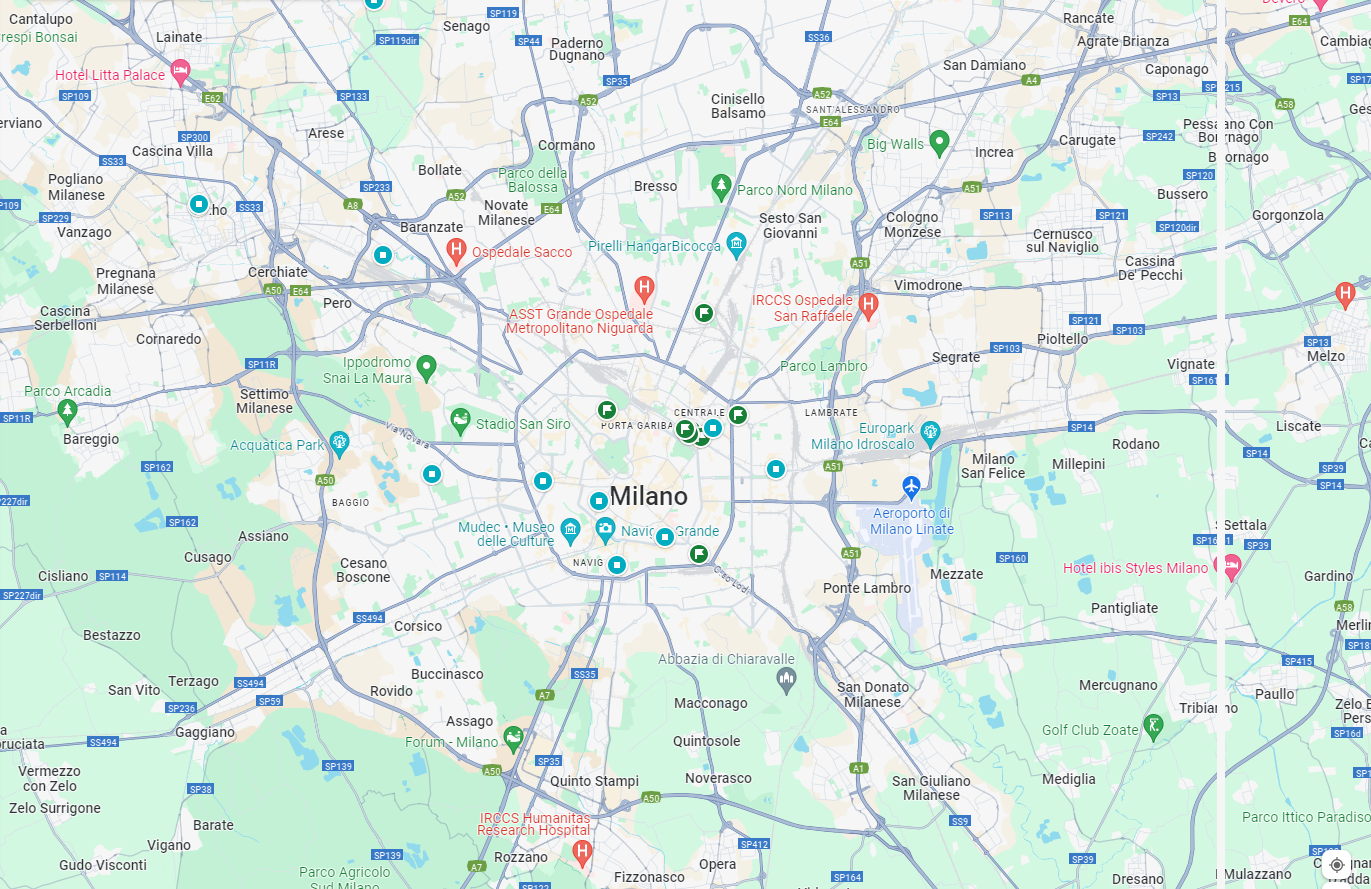
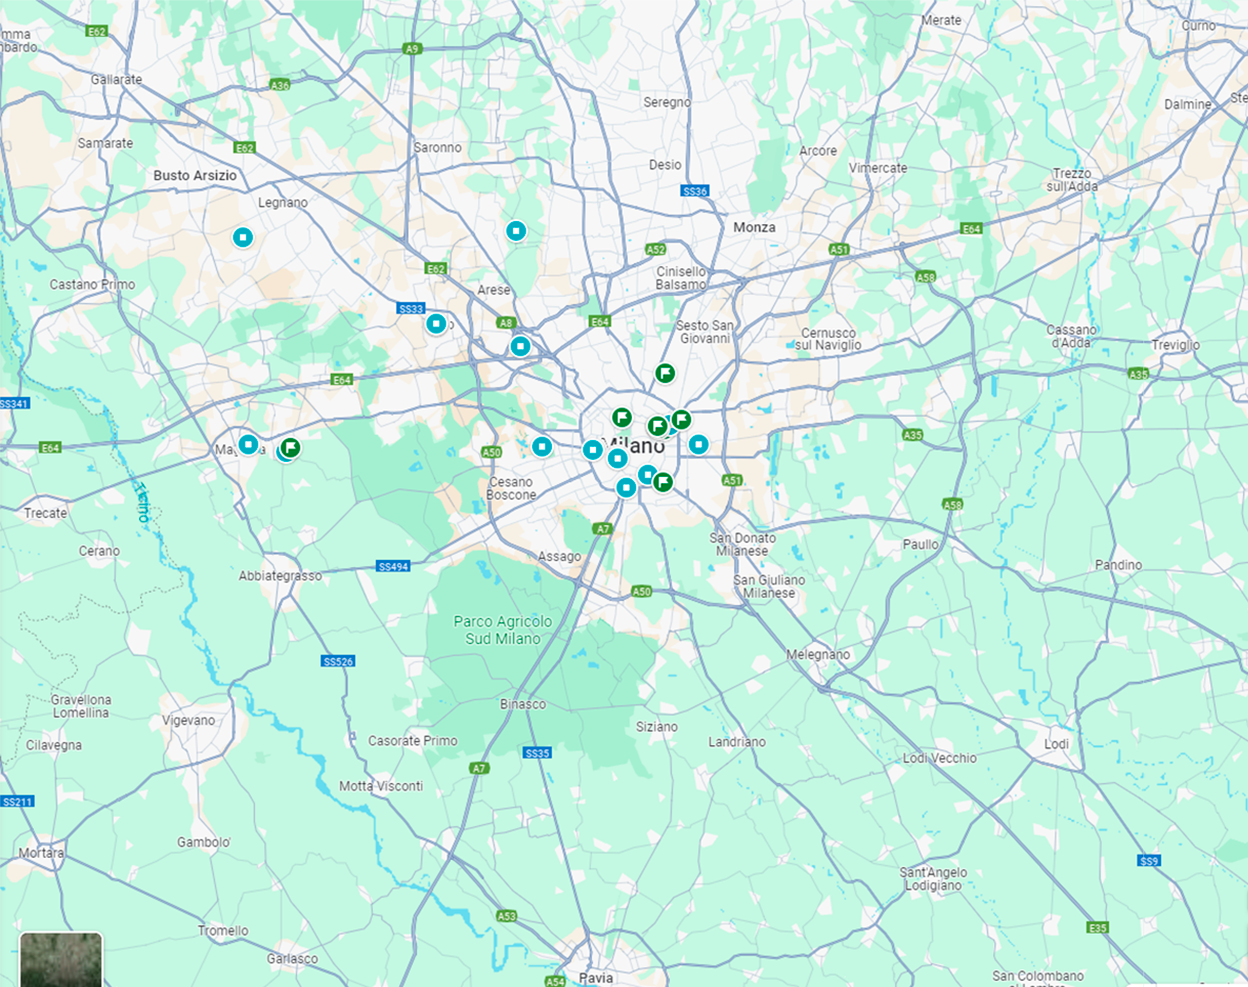
bug e mappa

diff --git a/src/components/ChangePercorso.vue b/src/components/ChangePercorso.vue
@@ -14,12 +14,12 @@
       <template v-for="perc in intersectarray"  v-bind:key="perc">
         <ion-row>
           <div :class="checkIfActive(perc.percorso)" class="lang-cont" v-on:click="switchPerc(perc)"> 
-            <ion-col class="lang-cont-flag" size="4"  :value="perc"   >
+            <ion-col class="lang-cont-flag" size="3"  :value="perc"   >
               
                 <div class="circle-cont"  >  <img class="cover circle" id="circle-it" :src="imgPercorsi(perc.img)" alt=""></div>
           
             </ion-col>
-            <ion-col class="lang-cont-name"  size="8">
+            <ion-col class="lang-cont-name"  size="9">
               <div class="percorso">{{nomeLingua(perc)}}</div>
 
             </ion-col> 
@@ -29,7 +29,7 @@
     </ion-grid>
 
 
-    <ion-button v-if="remaining.length>0" expand="block" size="slim" color="secondary" class="add-lang" @click="presentActionSheet">  {{$t('menu.percorsi.add')}} </ion-button>
+    <ion-button v-if="remaining.length>0" expand="block" size="slim" color="secondary" class="add-lang" @click="presentActionSheet">  {{$t('menu.percorsi.change')}} </ion-button>
 
 
      
@@ -125,7 +125,7 @@ export default ({
       this.currPubbDate(pubblication);
      
       const myArray = publishedPerc.filter( ( el ) =>{
-        console.log("?? "+!this.savedperlang.includes( el ));
+        console.log("?? "+el+ !this.savedperlang.includes( el ));
         return !this.savedperlang.includes( el);
       
       });
@@ -215,13 +215,13 @@ export default ({
     },
     buttons(){
       const remainingArray=[];
-        this.remaining.forEach(element => {
+        this.remainingIntersected.forEach(element => {
           const percPush={
-            text: this.$t(element),
+            text: this.nomeLingua(element),
             handler: () => {
               
                 console.log('clicked')
-                this.add(element)
+                this.add(element.percorso)
               },
           }
           remainingArray.push(percPush);
@@ -240,7 +240,7 @@ export default ({
     },
     async presentActionSheet() {
         const actionSheet = await actionSheetController.create({
-            header: this.$t('menu.lang.select'),
+            header: this.$t('menu.percorsi.select'),
             cssClass: 'my-custom-class',
             buttons: this.buttons(),
           });
@@ -252,8 +252,8 @@ export default ({
 
     async showOptions(perc) {
       const alert = await alertController.create({
-        header: this.$t('menu.lang.add') ,
-        message:  this.$t('menu.lang.alert') ,
+        header: this.$t('menu.percorsi.add') ,
+        message:  this.$t('menu.percorsi.alert') ,
         buttons: [
           {
             text: this.$t('action.download'),
@@ -389,7 +389,10 @@ export default ({
     },
     assignRemaining(remainingLangs){
       this.remaining=remainingLangs;
-      console.log("REMAINING ",  this.remaining.length);
+
+      this.remainingIntersected= this.infoPercorsi.filter(p=> this.remaining.includes(p.percorso));
+      console.log("REMAINING ",  this.remaining);
+      console.log("REMAINING Inter ",  this.remainingIntersected);
 
     },
 

diff --git a/src/views/Map.vue b/src/views/Map.vue
@@ -45,7 +45,9 @@ import {
 import common from "../js/common"
 import { useRouter } from "vue-router";
 import NavRoot from '@/components/NavRoot.vue';
-import leaflet from "leaflet";
+import L from "leaflet";
+import 'leaflet/dist/leaflet.css';
+
 
 
 
@@ -69,7 +71,7 @@ export default {
      lastTouchDistance : 0,
     lastScale : 1,
     map: null,
-    bounds: [[0,0], [889,1371]],
+    bounds: [[0,0], [987,1248]],
     url: '/assets/background/map/mappa.png',
     itens: [],
     markers: []
@@ -103,17 +105,7 @@ this.getItens();
 
   methods: {
 
-    resizeMap() {
-      if (this.map) {
-        this.map.invalidateSize();
-        // Workaround to re-open popups at their correct position.
-        this.map.eachLayer((layer) => {
-          if (layer instanceof L.Marker) {
-            layer.openPopup();
-          }
-        });
-      }
-    },
+  
     getItens() {
       this.itens = [
         {id: '1', description: 'Centro', latLng: [ 398,589], status: Math.floor((Math.random() * 2) + 1)},
@@ -125,7 +117,11 @@ this.getItens();
     drawMap() {
      
       // Inicializa o mapa, utilizando o sistema de coordenadas simples
-      this.map = L.map('map', {crs: L.CRS.Simple, maxZoom: 3, minZoom: -2})
+      this.map = L.map('map', {
+        crs: L.CRS.Simple, zoom:1,
+        maxZoom: 3,
+        minZoom: -1,
+      }).setView([20, 1])
       // Carrega a imagem do mapa, com seus limites
 
       
@@ -135,7 +131,7 @@ this.getItens();
       // Carrega os itens
       this.getItens();
       // Exclui marcadores anteriores
-     this.markers = [];
+      this.markers = [];
       // Converte os itens em marcadores
       this.itens.forEach((item, index, array)=>{
         const markerX = L.marker(L.latLng(item.latLng), {draggable: false})
@@ -278,12 +274,12 @@ this.getItens();
 
     coordtopixel(){
 
-    const  lat1=  45.58678559205394
-    const  lon1= 8.966008767967141
 
-    const  lat2=  45.372793162134194
-    const  lon2= 9.426538516604417
-
+    const  lat1= 45.700181594151495
+    const  lon1= 8.703366353316119
+   
+    const  lat2=  45.186283162786154
+    const  lon2= 9.644047701438618
     
 
    
@@ -373,15 +369,15 @@ ion-content {
     flex-direction: column;
     justify-content: center;
 }
-.map-container{
+/*.map-container{
   height: 80vh;
-}
-.image-map{
+}*/
+/*.image-map{
   height: 100%;
   object-fit: contain;
     object-position: top;
 
-}
+}*/
 #map { 
   
   height: 80vh;

diff --git a/src/components/MapComp.vue b/src/components/MapComp.vue
@@ -2,50 +2,36 @@
   <div id="map" ref="map" style="height: 100vh;"></div>
 </template>
 
-<script lang="ts">
+<script>
 
-
-import { onMounted, ref } from 'vue';
 import L from 'leaflet';
+import 'leaflet/dist/leaflet.css';
+
 //import { defineComponent } from 'vue';
 export default ({
-  setup() {
-    const map = ref(null);
-    
-    onMounted(() => {
-      // Definisci le dimensioni della tua immagine (in pixel)
-      const imageWidth = 1024;
-      const imageHeight = 768;
+  name: 'MapComponent',
+  mounted() {
+    this.initMap();
+  },
+  methods: {
+    initMap() {
+      const map = L.map('map').setView([51.505, -0.09], 13);
 
-      // Crea la mappa e disabilita le interazioni non necessarie
-      map.value = L.map('map', {
-        crs: L.CRS.Simple,
-        minZoom: -5,
-        maxZoom: 5,
-        zoomControl: true
-      }).setView([0, 0], 0);
+      L.tileLayer('https://{s}.tile.openstreetmap.org/{z}/{x}/{y}.png', {
+        attribution: '© OpenStreetMap contributors'
+      }).addTo(map);
 
-      // Calcola le dimensioni dell'immagine in coordinate di Leaflet
-      const southWest = map.value.unproject([0, imageHeight], map.value.getMaxZoom());
-      const northEast = map.value.unproject([imageWidth, 0], map.value.getMaxZoom());
-      const bounds = new L.LatLngBounds(southWest, northEast);
-
-      // Aggiungi l'immagine alla mappa
-      L.imageOverlay('path/to/your/image.jpg', bounds).addTo(map.value);
-
-      // Limita la visualizzazione ai confini dell'immagine
-      map.value.setMaxBounds(bounds);
-      map.value.fitBounds(bounds);
-
-      // Aggiungi un marker come esempio
-      const marker = L.marker(map.value.unproject([512, 384], map.value.getMaxZoom())).addTo(map.value);
-      marker.bindPopup('Questo è un marker').openPopup();
-    });
-
-    return {
-      map
-    };
+      // Aggiungere un'immagine PNG come overlay
+      const imageUrl = '/assets/background/map/mappa.png';
+      const imageBounds = [[51.49, -0.08], [51.5, -0.06]];
+      L.imageOverlay(imageUrl, imageBounds).addTo(map);
+    }
   }
 })
 </script>
+<style scoped>
+#map {
+  height: 100%;
+}
+</style>
 

diff --git a/src/service-worker.js b/src/service-worker.js
@@ -70,6 +70,10 @@ var netFirstRequests = new RegExp('(' + [
 		'/dataoversound-swi/service/rest/v1/mostra-attiva',
 		
 		].join('(\/?)|\\') + ')$')
+	var netFirstmostraAttivaPerc = new RegExp('(' + [
+		
+		'/dataoversound-swi/service/rest/v1/mostra-attiva/percorsi'
+		].join('(\/?)|\\') + ')$')
 	  
 //Tolto il commento a questa parte 
 /*self.addEventListener('fetch', event => {
@@ -102,6 +106,11 @@ function onFetch(event) {
 	}
 	if(netFirstmostraAttiva.test(event.request.url)){
 		console.log('netFirst MA: ', event.request.url)
+		event.respondWith(fetchorCacheMA(event))
+		return
+	}
+	if(netFirstmostraAttivaPerc.test(event.request.url)){
+		console.log('netFirst MA-P: ', event.request.url)
 		event.respondWith(fetchorCacheMA(event))
 		return
 	}

diff --git a/src/lang/en.js b/src/lang/en.js
@@ -78,11 +78,12 @@ export const en= {
             title:"Update content"
         },
         percorsi:{
-            title:"Percorsi",
-            subtitile:"Percorsi scaricati",
-            add:"Cambia percorso",
-            alert:"Attenzione questa operazione scaricherà i contenuti del nuovo percorso",
-            select:"Percorsi attivi",
+            title:"Itineraries",
+            subtitile:"Downloaded itineraries",
+            change:"Change itinerary",
+            add:"Add new itinerary",
+            alert:"Attention: this operation will download the contents of the new itinerary",
+            select:"Active itineraries",
         },
         lang:{
             title:"Language",

diff --git a/src/lang/es.js b/src/lang/es.js
@@ -78,8 +78,13 @@ export const es= {
             title:"Actualiza los contenidos"
         },
         percorsi:{
-            title:"Percorsi",
-            add:"Cambia percorso",
+            title:"Itinerarios",
+            subtitile:"Itinerarios descargados",
+            add:"Cambiar itinerario",
+            change:"Cambiar itinerario",
+            add:"Añadir un nuevo itinerario",
+            alert:"Atención: esta operación descargará el contenido del nuevo itinerario",
+            select:"Itinerarios activos",
         },
         lang:{
             title:"Idioma",

diff --git a/src/lang/fr.js b/src/lang/fr.js
@@ -77,8 +77,12 @@ export const fr ={
             title:"Mettre à jour le contenu"
         },
         percorsi:{
-            title:"Percorsi",
-            add:"Cambia percorso",
+            title:"itinéraires",
+            subtitile:"Itinéraires téléchargés",
+            change:"Changer d'itinéraire",
+            add:"Ajouter un nouvel itinéraire",
+            alert:"Attention : cette opération téléchargera le contenu du nouvel itinéraire",
+            select:"Itinéraires actifs",
         },
         lang:{
             title:"Langues",

diff --git a/src/lang/de.js b/src/lang/de.js
@@ -72,8 +72,12 @@ export const de= {
             title:"Inhalt aktualisieren"
         },
         percorsi:{
-            title:"Percorsi",
-            add:"Cambia percorso",
+            title:"Routen",
+            subtitile:"Heruntergeladene Routen",
+            change:"Route ändern",
+            add:"Fügen Sie eine neue Reiseroute hinzu",
+            alert:"Achtung, dieser Vorgang lädt den Inhalt des neuen Pfads herunter",
+            select:"Aktive Routen",
         },
         lang:{
             title:"Sprache",

diff --git a/src/lang/it.js b/src/lang/it.js
@@ -82,7 +82,8 @@ export const it = {
         percorsi:{
             title:"Percorsi",
             subtitile:"Percorsi scaricati",
-            add:"Cambia percorso",
+            change:"Cambia percorso",
+            add:"Aggiungi percorso",
             alert:"Attenzione questa operazione scaricherà i contenuti del nuovo percorso",
             select:"Percorsi attivi",
         },

diff --git a/src/service-worker_.js b/src/service-worker_.js
@@ -34,6 +34,10 @@ workbox.routing.registerRoute(
 	new RegExp(process.env.VUE_APP_BASE_URL+ '/service/rest/v1/mostra-attiva'),
 	new  workbox.strategies.NetworkFirst()
 );
+workbox.routing.registerRoute(
+	new RegExp(process.env.VUE_APP_BASE_URL+ '/service/rest/v1/mostra-attiva/percorsi'),
+	new  workbox.strategies.NetworkFirst()
+);
 
 
 workbox.routing.registerRoute(

diff --git a/src/views/EmptyWMap.vue b/src/views/EmptyWMap.vue
@@ -1,0 +1,24 @@
+<template>
+    <div id="app">
+      <MapComponent />
+    </div>
+  </template>
+  
+  <script>
+  import MapComponent from '../components/MapComp.vue';
+  
+  export default {
+    name: 'App',
+    components: {
+      MapComponent
+    }
+  };
+  </script>
+  
+  <style>
+  #app {
+    height: 100vh;
+    margin: 0;
+  }
+  </style>
+  

diff --git a/src/views/WavetoApp.vue b/src/views/WavetoApp.vue
@@ -67,7 +67,7 @@ import Subtitles from "./Subtitles.vue";
 import { useRouter } from "vue-router";
 import common from "../js/common"
 import { ref, onMounted, watch } from 'vue';
-import { useLocalStorage } from '@/composables/useLocalStorage';
+
 
 const { Storage } = Plugins;
 
